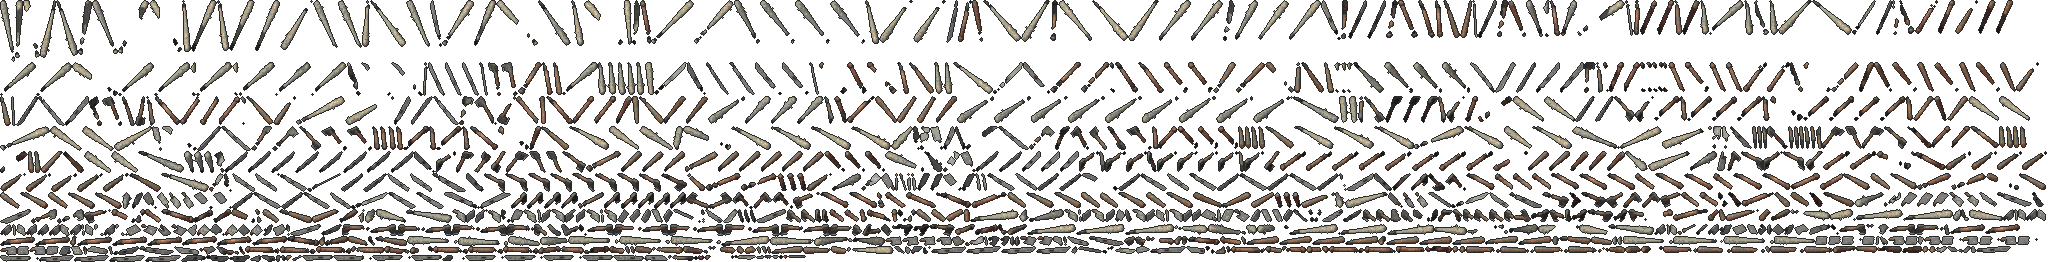
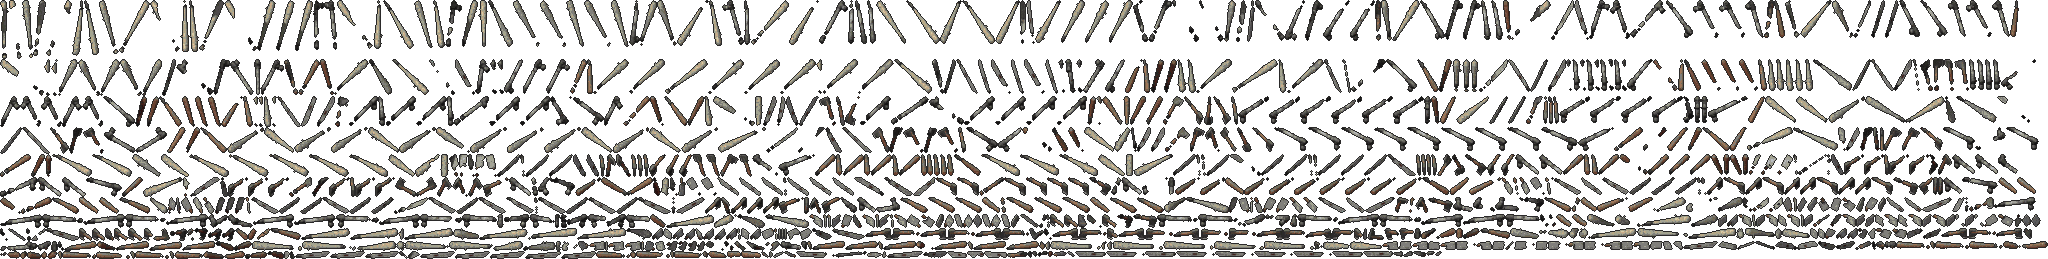
ANIMATION [the PC playtest: the bodies' part]: THE SHIELD ARM IS LIVE for YOU and his town men (car door, crash bar, riot shield from COOK's models; the pistol or the pipe in his right hand; the block on every hit that lands; planted on one knee); YOU's pipe is COOK's; the gate's planted leg reads t
Claude-Session: https://claude.ai/code/session_01HyqvNB1MLRJJJuRWhCSsjo

diff --git a/gates/melee_in_hand_gate.py b/gates/melee_in_hand_gate.py
@@ -301,6 +301,9 @@ if k0:
        any('PIdle k0 S' in x for x in hand_faults({k0: me})) and any('wind E' in x for x in swing_faults({k0: me})))
 
 # ---------------------------------------------------------------------------------------------------- G the shield arm
+KNEEL_REACH = 0.55   # metres: how far before his feet a man on one knee plants a shield (his knee and forearm)
+
+
 def shield_faults(E, only=None):
     """facing the glass (S): CARRIED, the shield's middle on his left (the glass's right of his middle) and over his body;
     THE BLOCK, its top a tenth of his height higher than carried and up at his face (within a quarter of his height under
@@ -318,14 +321,16 @@ def shield_faults(E, only=None):
             ct = c[2] + np.nonzero(c[0])[0].min(); bt = b[2] + np.nonzero(b[0])[0].min()
             if ct - bt < h * 0.1: out.append('%s %s block: only %d px higher than carried' % (k, sh, ct - bt))
             if bt > crown + h * 0.25: out.append('%s %s block: its top %d px under his crown' % (k, sh, bt - crown))
-            # planted: its foot on the ground before him, never floating; its near end sits lower on the glass by as much as half
-            # its width seen across the 45 degree ground (nearer the camera), never more
+            # planted: its foot on the ground before him, never floating. In profile its near end sits lower on the glass by as
+            # much as half its width seen across the 45 degree ground (nearer the camera), never more; facing the glass it stands
+            # before his knee, lower by the kneel's reach (measured 10/25: 19 to 21 px for the car door, the crash bar and the
+            # riot shield alike, whatever their width), never more than KNEEL_REACH
             near = D['props'][sh]['w'] / 2 * 57 * 0.7071 + 3
             for f, nm in ((0, 'S'), (2, 'E'), (6, 'W')):
                 lp = prop(k, sh, 'SCover', 0, f, e)
                 if lp is None: continue
                 lb = lp[2] + np.nonzero(lp[0])[0].max()
-                if not -3 <= lb - fy <= near + (D['props'][sh]['w'] * 0.3 * 57 * 0.7071 if f == 0 else 0):
+                if not -3 <= lb - fy <= (KNEEL_REACH * 57 * 0.7071 + 3 if f == 0 else near):
                     out.append('%s %s in cover %s: its foot %+d px from his ground' % (k, sh, nm, lb - fy))
     return out
 

diff --git a/records/BOHEMIA_ANIMATION_THE_THING_IN_HIS_HAND_10_25_26.md b/records/BOHEMIA_ANIMATION_THE_THING_IN_HIS_HAND_10_25_26.md
@@ -15,6 +15,14 @@ butcher's cleaver 6, the militia and boar spears 10, the morning star 4, the han
 HANDS: the fight draws only guns (rule 120(a)); a man with a pipe stood, walked and swung bare-fisted. About 150 carry a
 shield (the wooden shield, the car door, and the buckler); none was drawn.
 
+MEASURED AGAIN on the shipped file mid-round (the same sixteen fights, 336 men): 142 carry a shield, none on the back. The
+two commonest are the pipe and a car door (48: the bludgeon and the wooden shield) and THE PISTOL AND A CAR DOOR (32: the
+dagger row is our pistol, ours.gun_classes, and it carries the wooden shield): rule 149(b)'s own words, a third of all the
+shields. Every melee and shield row those men hold maps to a thing; the 48 light crossbows and 16 handgonnes are our rifle
+and shotgun (COMBAT's guns). By look: YOU's crew 192 men (80 shields, 32 two-handers, town men 1, 2, 3, 6, 8, 11 among
+them), the homeless 48 (20, 22), the anarchists 48 (18, 24), the thug tier 16 (10, 2), the mob 16 (8, 4), the reds 16
+(6, 4): the render order follows them.
+
 ## WHAT WAS BUILT
 THE SOURCE, KEPT (rule 128): records/target/animation/BOHEMIA_MELEE_AND_SHIELD.json. THE TOOL:
 tools/bohemia_animation_melee_in_hand.py. THE SHEETS: slices/rig_melee/<look>.webp (his own new keys), <look>_props.webp
